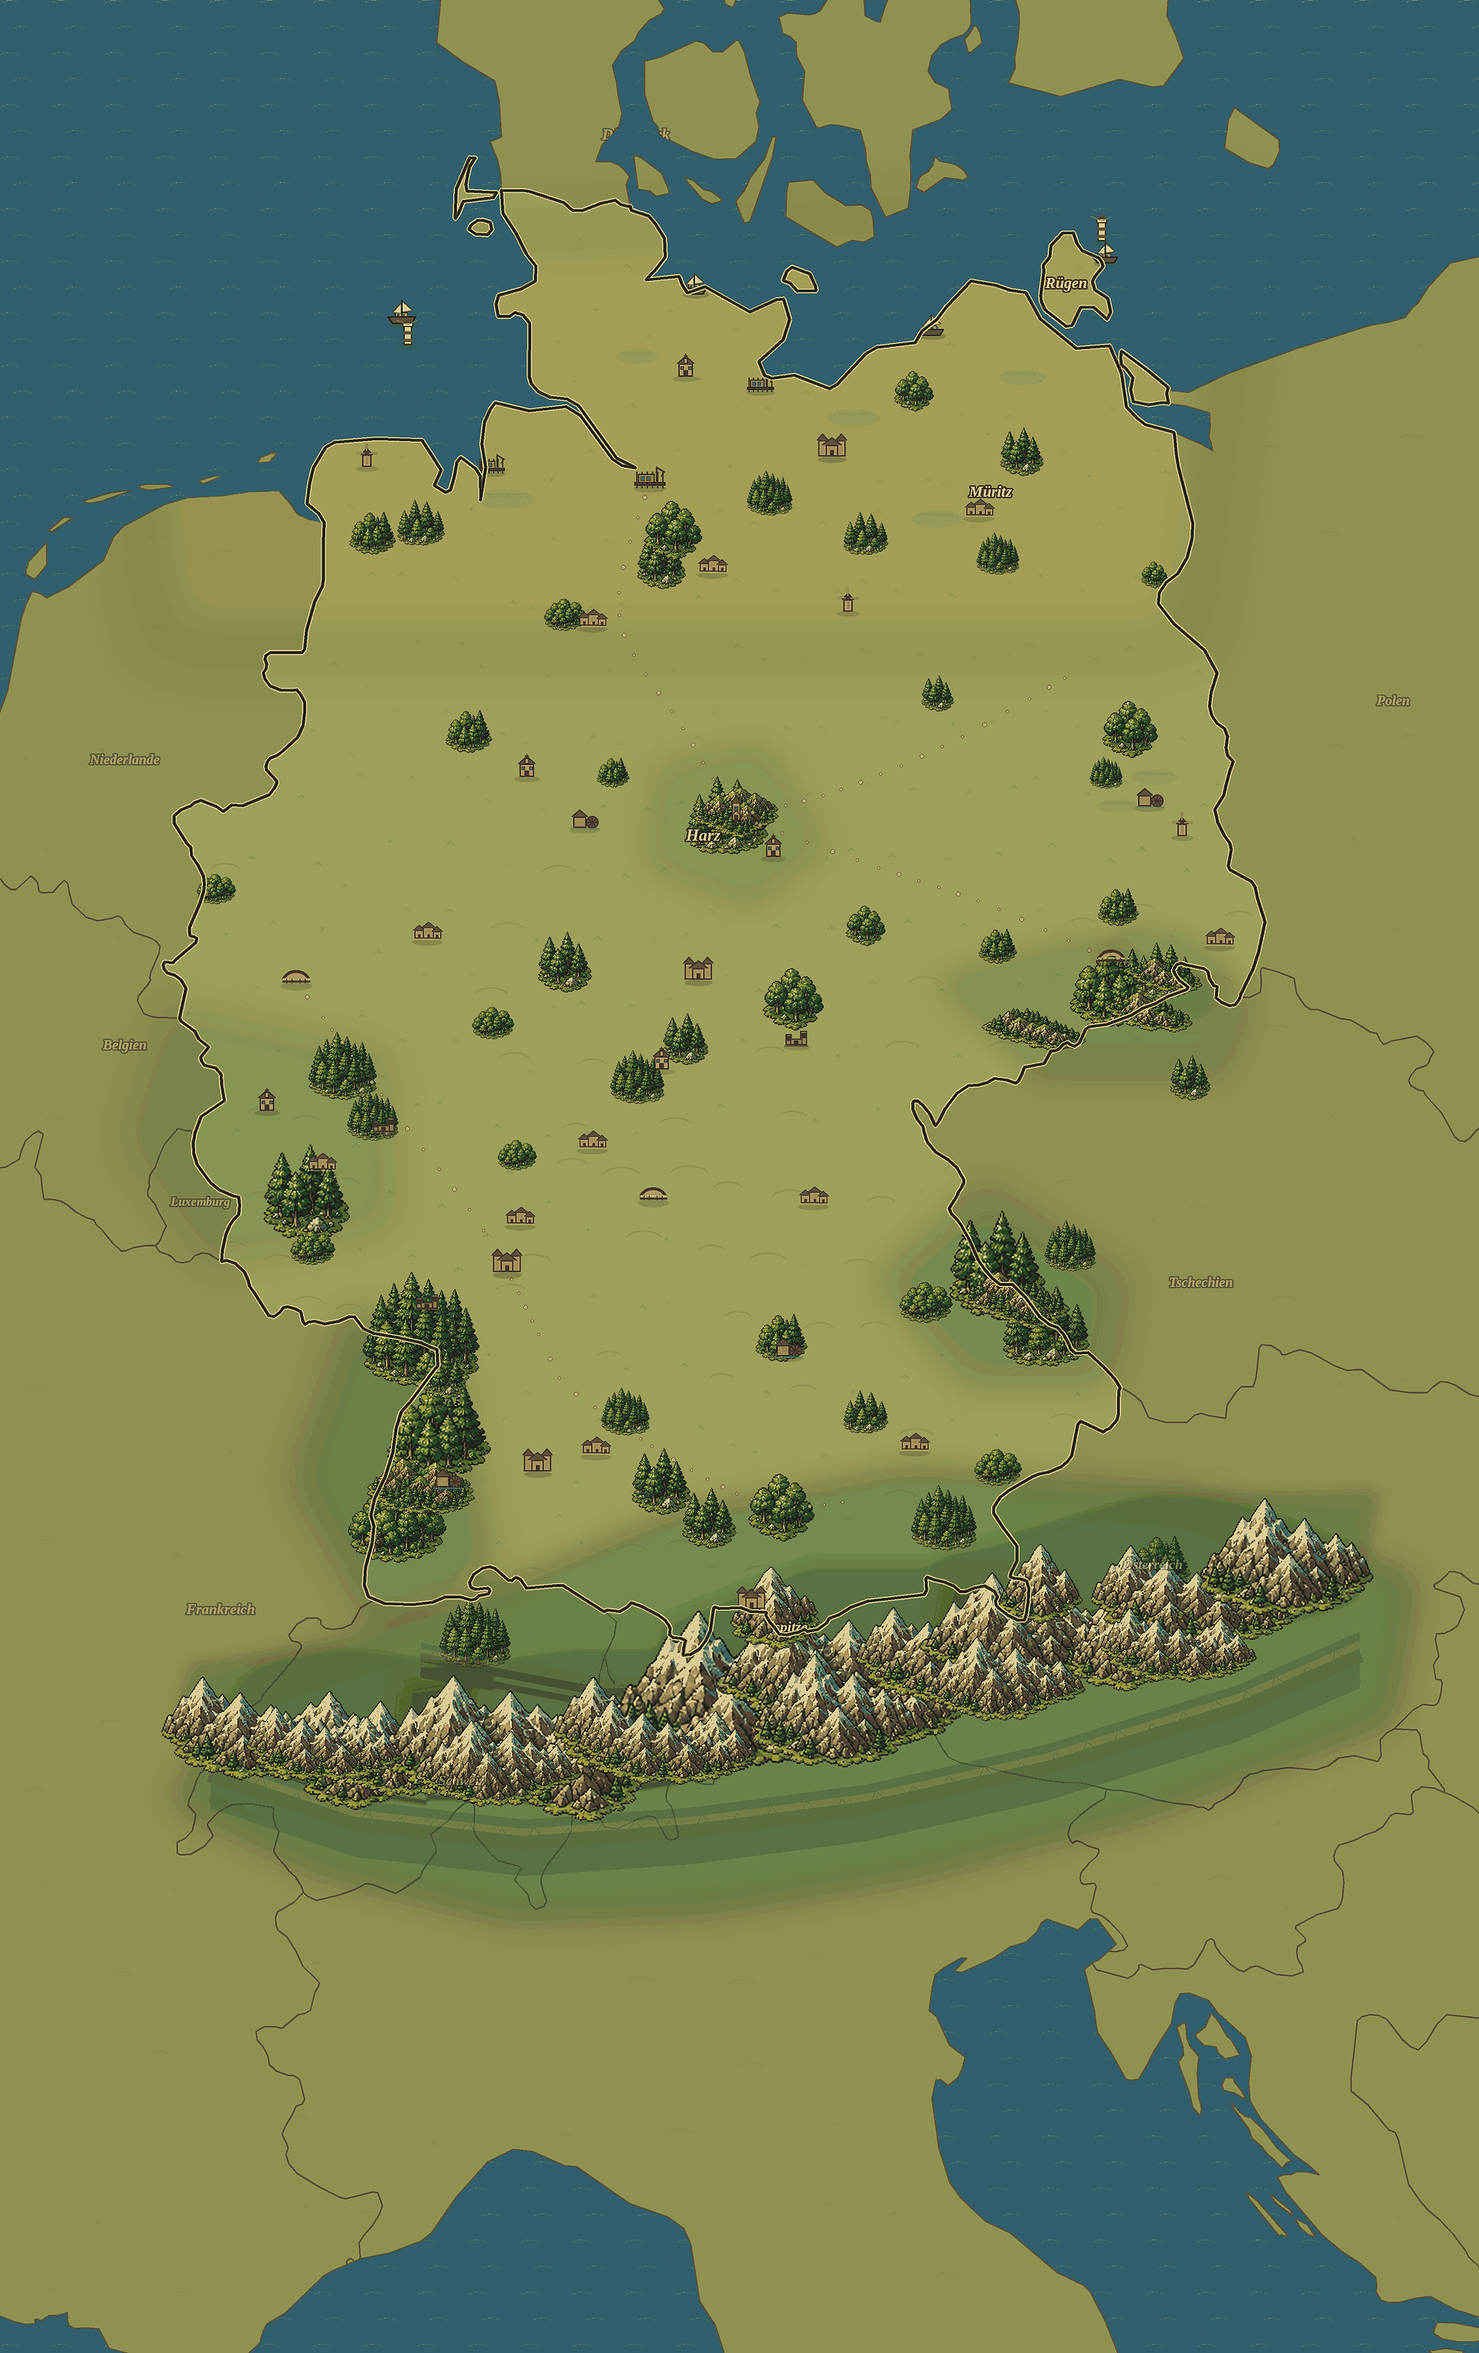
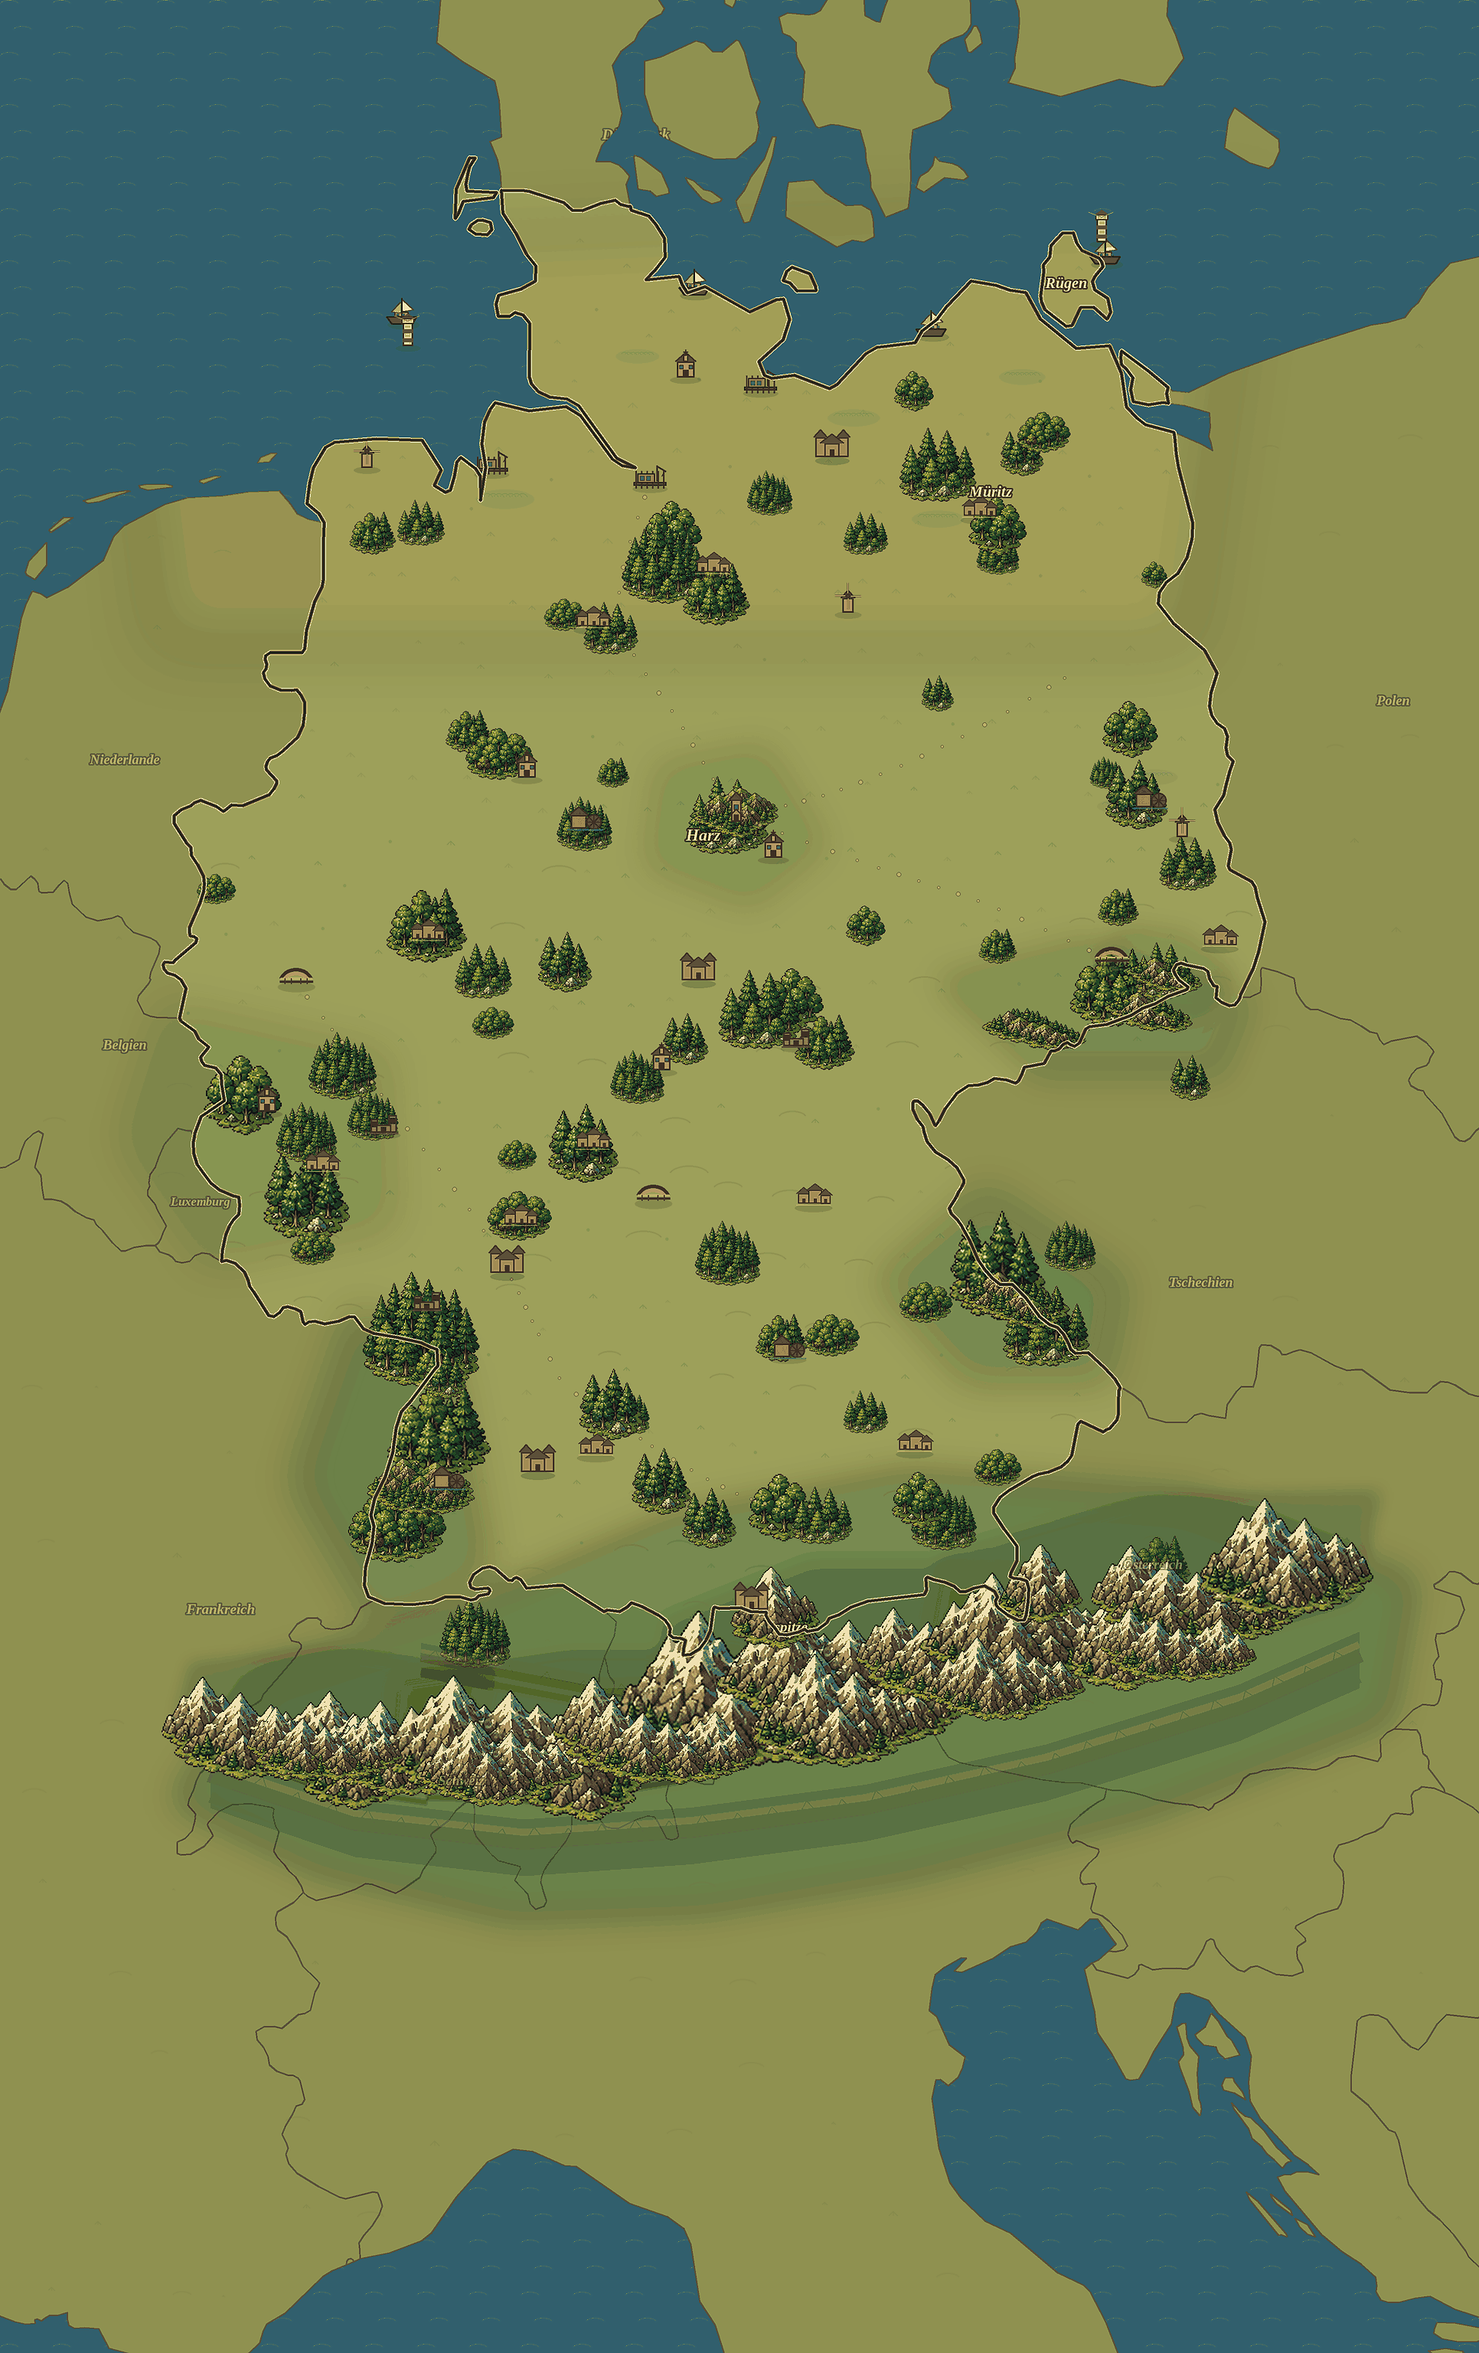
Add explicit forest density layer

diff --git a/map_pipeline/compose_map.py b/map_pipeline/compose_map.py
@@ -373,6 +373,92 @@ ATLAS_ROUTE_SEGMENTS = [
     },
 ]
 
+ATLAS_FOREST_MASSES = [
+    {
+        "id": "lueneburg_heath",
+        "label": "Lueneburg Heath",
+        "clusters": [
+            ("forest_cluster_1", 10.02, 53.03, 118),
+            ("forest_cluster_4", 10.46, 52.88, 98),
+            ("forest_cluster_2", 9.58, 52.72, 78),
+        ],
+    },
+    {
+        "id": "mecklenburg_lake_forests",
+        "label": "Mecklenburg Lake District forests",
+        "clusters": [
+            ("forest_cluster_2", 12.30, 53.52, 110),
+            ("forest_cluster_6", 12.80, 53.22, 88),
+            ("forest_cluster_3", 13.18, 53.70, 76),
+        ],
+    },
+    {
+        "id": "spreewald_lausitz",
+        "label": "Spreewald and Lausitz",
+        "clusters": [
+            ("forest_cluster_5", 13.95, 51.86, 92),
+            ("forest_cluster_2", 14.38, 51.52, 82),
+        ],
+    },
+    {
+        "id": "teutoburg_weser",
+        "label": "Teutoburg and Weser uplands",
+        "clusters": [
+            ("forest_cluster_3", 8.65, 52.08, 96),
+            ("forest_cluster_1", 9.36, 51.72, 78),
+        ],
+    },
+    {
+        "id": "sauerland_rothaar",
+        "label": "Sauerland and Rothaar",
+        "clusters": [
+            ("forest_cluster_4", 8.05, 51.18, 118),
+            ("forest_cluster_2", 8.52, 50.96, 82),
+        ],
+    },
+    {
+        "id": "eifel_ardennes_edge",
+        "label": "Eifel and Ardennes edge",
+        "clusters": [
+            ("forest_cluster_6", 6.52, 50.28, 118),
+            ("forest_cluster_1", 7.05, 50.10, 86),
+        ],
+    },
+    {
+        "id": "spessart_odenwald",
+        "label": "Spessart and Odenwald",
+        "clusters": [
+            ("forest_cluster_5", 9.35, 50.03, 104),
+            ("forest_cluster_3", 8.82, 49.66, 92),
+        ],
+    },
+    {
+        "id": "thuringian_forest",
+        "label": "Thuringian Forest",
+        "clusters": [
+            ("forest_cluster_2", 10.82, 50.74, 118),
+            ("forest_cluster_4", 11.36, 50.58, 88),
+        ],
+    },
+    {
+        "id": "franconian_swabian_uplands",
+        "label": "Franconian and Swabian uplands",
+        "clusters": [
+            ("forest_cluster_1", 10.55, 49.45, 92),
+            ("forest_cluster_5", 9.58, 48.62, 94),
+            ("forest_cluster_3", 11.42, 49.02, 78),
+        ],
+    },
+    {
+        "id": "upper_bavaria_foothills",
+        "label": "Upper Bavaria foothill forests",
+        "clusters": [
+            ("forest_cluster_2", 11.34, 48.02, 86),
+            ("forest_cluster_6", 12.15, 48.10, 84),
+        ],
+    },
+]
+
 ATLAS_DETAIL_KIND_SCALE = {
     "bridge": 1.15,
     "castle": 1.25,
@@ -386,7 +472,7 @@ ATLAS_DETAIL_KIND_SCALE = {
     "watermill": 1.55,
     "windmill": 1.55,
 }
-MIN_ATLAS_DETAIL_WIDTH = 54
+MIN_ATLAS_DETAIL_WIDTH = 66
 
 
 def _scale_size(size):
@@ -653,6 +739,16 @@ def _draw_atlas_details(canvas, proj):
             detail["lat"],
             target_width,
         )
+    canvas.alpha_composite(layer)
+
+
+def _draw_atlas_forest_masses(canvas, proj, land_mask):
+    layer = Image.new("RGBA", canvas.size, (0, 0, 0, 0))
+    for mass in ATLAS_FOREST_MASSES:
+        for glyph_name, lon, lat, width in mass["clusters"]:
+            _draw_glyph_center(layer, proj, glyph_name, lon, lat, width)
+    alpha = Image.composite(layer.getchannel("A"), Image.new("L", canvas.size, 0), land_mask)
+    layer.putalpha(alpha)
     canvas.alpha_composite(layer)
 
 
@@ -1222,6 +1318,7 @@ def main():
     _draw_neighbor_ground_texture(canvas, proj, neighbor_mask)
     _draw_ground_texture(canvas, proj, germany_mask, germany)
     _draw_lakes(canvas, proj, germany_mask)
+    _draw_atlas_forest_masses(canvas, proj, land_mask)
     _draw_atlas_routes(canvas, proj, germany_mask)
     _draw_atlas_details(canvas, proj)
     _draw_neighbor_country_labels(canvas, proj, neighbor_mask)

diff --git a/tests/test_map_panel_contract.py b/tests/test_map_panel_contract.py
@@ -356,7 +356,7 @@ class MapPanelContractTest(unittest.TestCase):
             "if BAKED_TOWN_DETAILS_ENABLED:",
             "for lon, lat, size in BAKED_TOWN_DETAILS:",
             "ATLAS_DETAILS = [",
-            "MIN_ATLAS_DETAIL_WIDTH = 54",
+            "MIN_ATLAS_DETAIL_WIDTH = 66",
             '"id": "hamburg_port"',
             '"glyph": "detail_port"',
             '"id": "rostock_ferry"',
@@ -375,6 +375,13 @@ class MapPanelContractTest(unittest.TestCase):
             "def _smooth_polyline(points, subdivisions=10):",
             "def _draw_atlas_dotted_route(draw, points, step):",
             "_draw_atlas_routes(canvas, proj, germany_mask)",
+            "ATLAS_FOREST_MASSES = [",
+            '"id": "lueneburg_heath"',
+            '"id": "mecklenburg_lake_forests"',
+            '"id": "spreewald_lausitz"',
+            '"id": "thuringian_forest"',
+            "def _draw_atlas_forest_masses(canvas, proj, land_mask):",
+            "_draw_atlas_forest_masses(canvas, proj, land_mask)",
             "def _draw_atlas_details(canvas, proj):",
             "for detail in ATLAS_DETAILS:",
             "target_width = max(MIN_ATLAS_DETAIL_WIDTH, detail[\"width\"] * kind_scale)",

diff --git a/docs/active-map-backlog.md b/docs/active-map-backlog.md
@@ -48,7 +48,8 @@
 - [x] Усилить visual hierarchy интерактивных объектов: transport markers теперь крупнее city landmarks на default/mobile и имеют больший cap (`60..96`) против более сдержанных city landmarks (`42..76`).
 - [x] Добавить outline-only runtime sprites для транспортных и city landmark иконок: объекты должны читаться поверх детальной карты без кругов, плашек и фоновых подложек.
 - [x] Убрать jitter у runtime объектов при pan/zoom: транспортные маркеры, city landmarks и размеры иконок snap-аются к целым пикселям по тому же принципу, что и подписи.
-- [x] Увеличить мелкие atlas details: домики/часовни/мельницы/руины/водяные мельницы имеют `MIN_ATLAS_DETAIL_WIDTH = 54`, чтобы не превращаться в шум.
+- [x] Увеличить мелкие atlas details: домики/часовни/мельницы/руины/водяные мельницы имеют `MIN_ATLAS_DETAIL_WIDTH = 66`, чтобы не превращаться в шум.
+- [x] Добавить первый explicit forest mass layer: `ATLAS_FOREST_MASSES` покрывает Lüneburger Heide, Mecklenburg lake forests, Spreewald/Lausitz, Teutoburg/Weser, Sauerland/Rothaar, Eifel, Spessart/Odenwald, Thuringian Forest, Franconian/Swabian uplands и Upper Bavaria foothills.
 - [x] Убрать странные декоративные полоски из текущего рендера: route overlay и слишком прямые procedural waterways больше не вызываются, field hatch/field patch заменены на более спокойные tufts/hill marks.
 - [x] Вернуть journey-map структуру без технических полос: добавлен controlled `ATLAS_ROUTE_SEGMENTS` layer с короткими dotted atlas trails, без continuous `draw.line` и без blue procedural waterways.
 - [x] Снизить clutter на default zoom: второстепенные подписи городов появляются после zoom `1.20`, а названия под иконками стали ближе к пиктограммам.
@@ -70,5 +71,5 @@
 ## Current Known State
 
 - Карта на `http://127.0.0.1:9000/` пересобрана из `main`.
-- Последний map commit на момент обновления backlog: pending controlled atlas route dots.
-- Текущая карта технически рабочая и архитектурно движется в glyph-based direction. Честная оценка после screenshots: около `6/10`, местами ближе к `6.5/10` по южному виду из-за более узнаваемых Альп, atlas labels и quiet dotted trails. Нельзя оценивать ее как `8/10`: нужна более сильная художественная плотность, audit рельефа/озер/координат, finer high-quality mountain glyphs and broader Europe explicit layers.
+- Последний map commit на момент обновления backlog: pending explicit forest/detail density pass.
+- Текущая карта технически рабочая и архитектурно движется в glyph-based direction. Честная оценка после screenshots: около `6.5/10` по плотности и читаемости, но нельзя оценивать ее как `8/10`: некоторые forest+village clusters тяжеловаты, нужна более сильная художественная плотность, audit рельефа/озер/координат, finer high-quality mountain glyphs and broader Europe explicit layers.

diff --git a/docs/map-orchestrator-progress.md b/docs/map-orchestrator-progress.md
@@ -622,3 +622,29 @@ Checks:
 - `PLAYWRIGHT_PACKAGE=/tmp/cable-playwright/node_modules/playwright URL=http://127.0.0.1:9000/ node scripts/verify-web-map.mjs`: screenshots regenerated.
 
 Self-audit: still around `6/10`. This restores some "journey map" structure needed for the reference direction and removes the old technical-line failure mode, but it does not solve the bigger art/geography blockers: stronger terrain glyphs, accurate Europe-scale relief, more readable non-random detail density, and final object hierarchy.
+
+## Iteration 2026-05-31 18:55
+
+Implemented:
+
+- Added explicit `ATLAS_FOREST_MASSES` as a named glyph layer for real/plausible German forest regions instead of relying only on sparse procedural ground texture.
+- Covered Lüneburger Heide, Mecklenburg lake forests, Spreewald/Lausitz, Teutoburg/Weser uplands, Sauerland/Rothaar, Eifel/Ardennes edge, Spessart/Odenwald, Thuringian Forest, Franconian/Swabian uplands and Upper Bavaria foothills.
+- Raised `MIN_ATLAS_DETAIL_WIDTH` from `54` to `66`, so small houses/chapels/ruins/watermills are less likely to read as dust.
+- Added contract coverage for the new forest mass layer and the higher atlas detail minimum.
+
+Evidence:
+
+- `assets/map/germany_styled.png`: `1932x3072`, about `2.35 MB` after the forest/detail density pass.
+- `/tmp/cable-world-web-map/mobile-390x844-initial.png` shows more visible forests and villages while city landmarks and labels remain readable.
+- `/tmp/cable-world-web-map/mobile-390x844-after-marker-click.png` shows transport markers still sit above the new forest/village texture at `170%`.
+- `/tmp/cable-world-web-map/desktop-1280x800-initial.png` shows the map is less empty across central/northern Germany without reintroducing technical route stripes.
+- `curl -I --compressed http://127.0.0.1:9000/index.pck`: `Content-Encoding: gzip`, `Content-Length: 6260903`, `Cache-Control: no-store`.
+
+Checks:
+
+- `python3 -m unittest tests.test_map_panel_contract tests.test_export_payload_contract tests.test_android_export_contract`: 18 OK.
+- `godot --headless --path . --import --quit`: no parse/import errors. Existing nested worktree warning and adb daemon warning remain.
+- Web export rebuilt and served on `http://127.0.0.1:9000/`; the server had to be restarted after the export returned an empty response.
+- `PLAYWRIGHT_PACKAGE=/tmp/cable-playwright/node_modules/playwright URL=http://127.0.0.1:9000/ node scripts/verify-web-map.mjs`: screenshots regenerated.
+
+Self-audit: about `6.5/10`, not `8/10`. This fixes part of the "boring/empty" failure mode, but some forest+village clusters are now visually heavy and still need a stronger art-directed glyph pass. The larger blockers remain relief accuracy, Europe-scale continuity and final marker/list polish.
